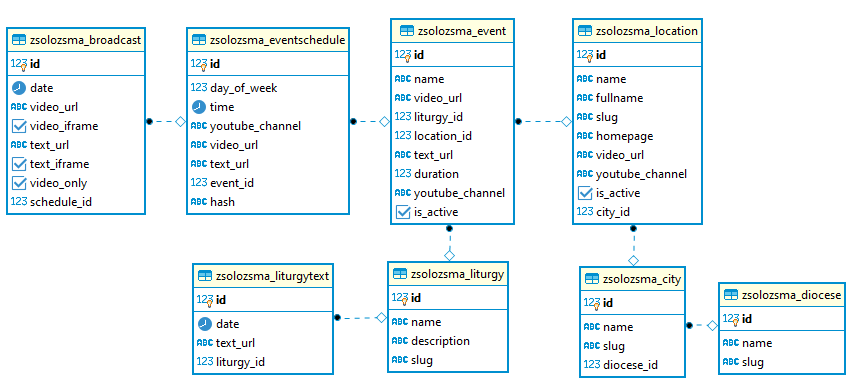
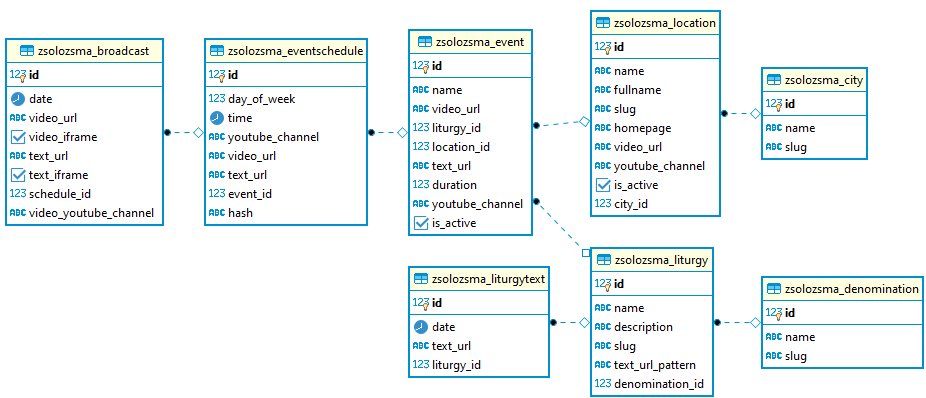
felekezetek szerinti szűrés, egyéb rendrakás

Changed region(s): [[0.0, 0.0, 1.0, 0.9974], [0.2139, 0.6857, 0.3972, 0.9974]]

diff --git a/zsolozsma/templates/zsolozsma/denomination.html b/zsolozsma/templates/zsolozsma/denomination.html
@@ -1,0 +1,9 @@
+{% extends "zsolozsma/layout.html" %}
+{% block title %}{{ denomination.name }}{% endblock %}
+{% block ogtitle %}Közvetítések - {{ denomination.name }} szertartások{% endblock %}
+{% block content %}
+<div class="denomination">
+    <h1>{{ denomination.name }} szertartások</h1>
+</div>
+{% include 'zsolozsma/snippets/schedule.html' with show_city=True show_location=True %}
+{% endblock %}

diff --git a/zsolozsma/templates/zsolozsma/search.html b/zsolozsma/templates/zsolozsma/search.html
@@ -15,7 +15,7 @@
     <li><a href="{% url 'liturgy' liturgy.2 %}">{{ liturgy.1 }}</a></li>
     {% endfor %}
     </ul>
-    
+    <hr />
     <h2>Helyszínek</h2>
     {% for location in locations %}
         {% ifchanged location.0 %}

diff --git a/zsolozsma/queries.py b/zsolozsma/queries.py
@@ -58,7 +58,8 @@ class ScheduleItem(object):
 
 def get_schedule(location_slug=None,
                  liturgy_slug=None,
-                 city_slug=None):
+                 city_slug=None,
+                 denomination_slug=None):
     scheduleQuery = models.EventSchedule.objects\
         .select_related('event', 'event__location', 'event__location__city')\
         .filter(event__is_active=True, event__location__is_active=True)
@@ -69,13 +70,13 @@ def get_schedule(location_slug=None,
              [today + timedelta(days=i) for i in range(SCHEDULE_FUTURE_DAYS)]]
 
     if (location_slug):
-        scheduleQuery = scheduleQuery.filter(
-            event__location__slug=location_slug)
+        scheduleQuery = scheduleQuery.filter(event__location__slug=location_slug)
     if (liturgy_slug):
         scheduleQuery = scheduleQuery.filter(event__liturgy__slug=liturgy_slug)
     if (city_slug):
-        scheduleQuery = scheduleQuery.filter(
-            event__location__city__slug=city_slug)
+        scheduleQuery = scheduleQuery.filter(event__location__city__slug=city_slug)
+    if (denomination_slug):
+        scheduleQuery = scheduleQuery.filter(event__liturgy__denomination__slug=denomination_slug)
 
     scheduleQuery = scheduleQuery.filter(day_of_week__in=[d[1] for d in dates])
     days = defaultdict(list)

diff --git a/zsolozsma/urls.py b/zsolozsma/urls.py
@@ -16,16 +16,17 @@ urlpatterns = [
 
     # Szertartás adatlapja, közvetítések
     path('szertartas/<slug:liturgy>/', views.liturgy, name='liturgy'),
-    re_path(r'^szertartas/(?P<liturgy>[\w-]+)/(?P<date>\d{4}-\d{2}-\d{2})/$', views.liturgy, name='liturgy-date'),
-    re_path(r'^szertartas/(?P<liturgy>[\w-]+)/(?P<location>[\w-]+)/$', views.liturgy, name='liturgy-location'),
+
+    # Felekezet/rítus
+    path('felekezet/<slug:denomination>/', views.denomination, name='denomination'),
+    path('felekezet/<slug:denomination>/<slug:city>/', views.denomination, name='denomination-city'),
 
     # Közvetítés
     re_path(r'^kozvetites/(?P<hash>[\w]+)/(?P<date>\d{4}-\d{2}-\d{2})/$', views.broadcast, name='broadcast'),
     
     # Város
-    re_path(r'^(?P<city>[\w-]+)/$', views.city, name='city'),
+    path('<slug:city>/', views.city, name='city'),
     # Helyszín adatlapja, közvetítések
-    re_path(r'^(?P<city>[\w-]+)/(?P<location>[\w-]+)/$', views.location, name='city-location'),
-    re_path(r'^(?P<city>[\w-]+)/(?P<location>[\w-]+)/(?P<date>\d{4}-\d{2}-\d{2})/$', views.location, name='city-location-date'),
+    path('<slug:city>/<slug:location>/', views.location, name='city-location'),
 
 ]

diff --git a/zsolozsma/views.py b/zsolozsma/views.py
@@ -45,11 +45,21 @@ def liturgy(request, liturgy):
 
     return render(request, 'zsolozsma/liturgy.html', {'liturgy': liturgy_object, 'schedule': schedule})
 
+
 def city(request, city):
     city_object = get_object_or_404(models.City, slug=city)
     schedule = queries.get_schedule(city_slug=city)
 
     return render(request, 'zsolozsma/city.html', { 'city': city_object, 'schedule': schedule })
+
+
+def denomination(request, denomination, city=None):
+    denomination_object = get_object_or_404(models.Denomination, slug=denomination)
+
+    schedule = queries.get_schedule(city_slug=city, denomination_slug=denomination)
+
+    return render(request, 'zsolozsma/denomination.html', {'denomination': denomination_object, 'schedule': schedule})
+    
 
 def broadcast(request, hash, date):
     schedule_object = get_object_or_404(models.EventSchedule, hash=hash)

diff --git a/zsolozsma/models.py b/zsolozsma/models.py
@@ -6,7 +6,7 @@ from zsolozsma import youtube
 
 
 class Denomination(models.Model):
-    """Felekezet"""
+    """Felekezet/rítus"""
 
     name = models.CharField('Név', blank=False, unique=True, max_length=200)
     slug = models.SlugField('URL részlet',
@@ -22,8 +22,8 @@ class Denomination(models.Model):
         return self.name
 
     class Meta:
-        verbose_name = 'Felekezet'
-        verbose_name_plural = 'Felekezetek'
+        verbose_name = 'Felekezet/rítus'
+        verbose_name_plural = 'Felekezetek/rítusok'
 
 
 class City(models.Model):
